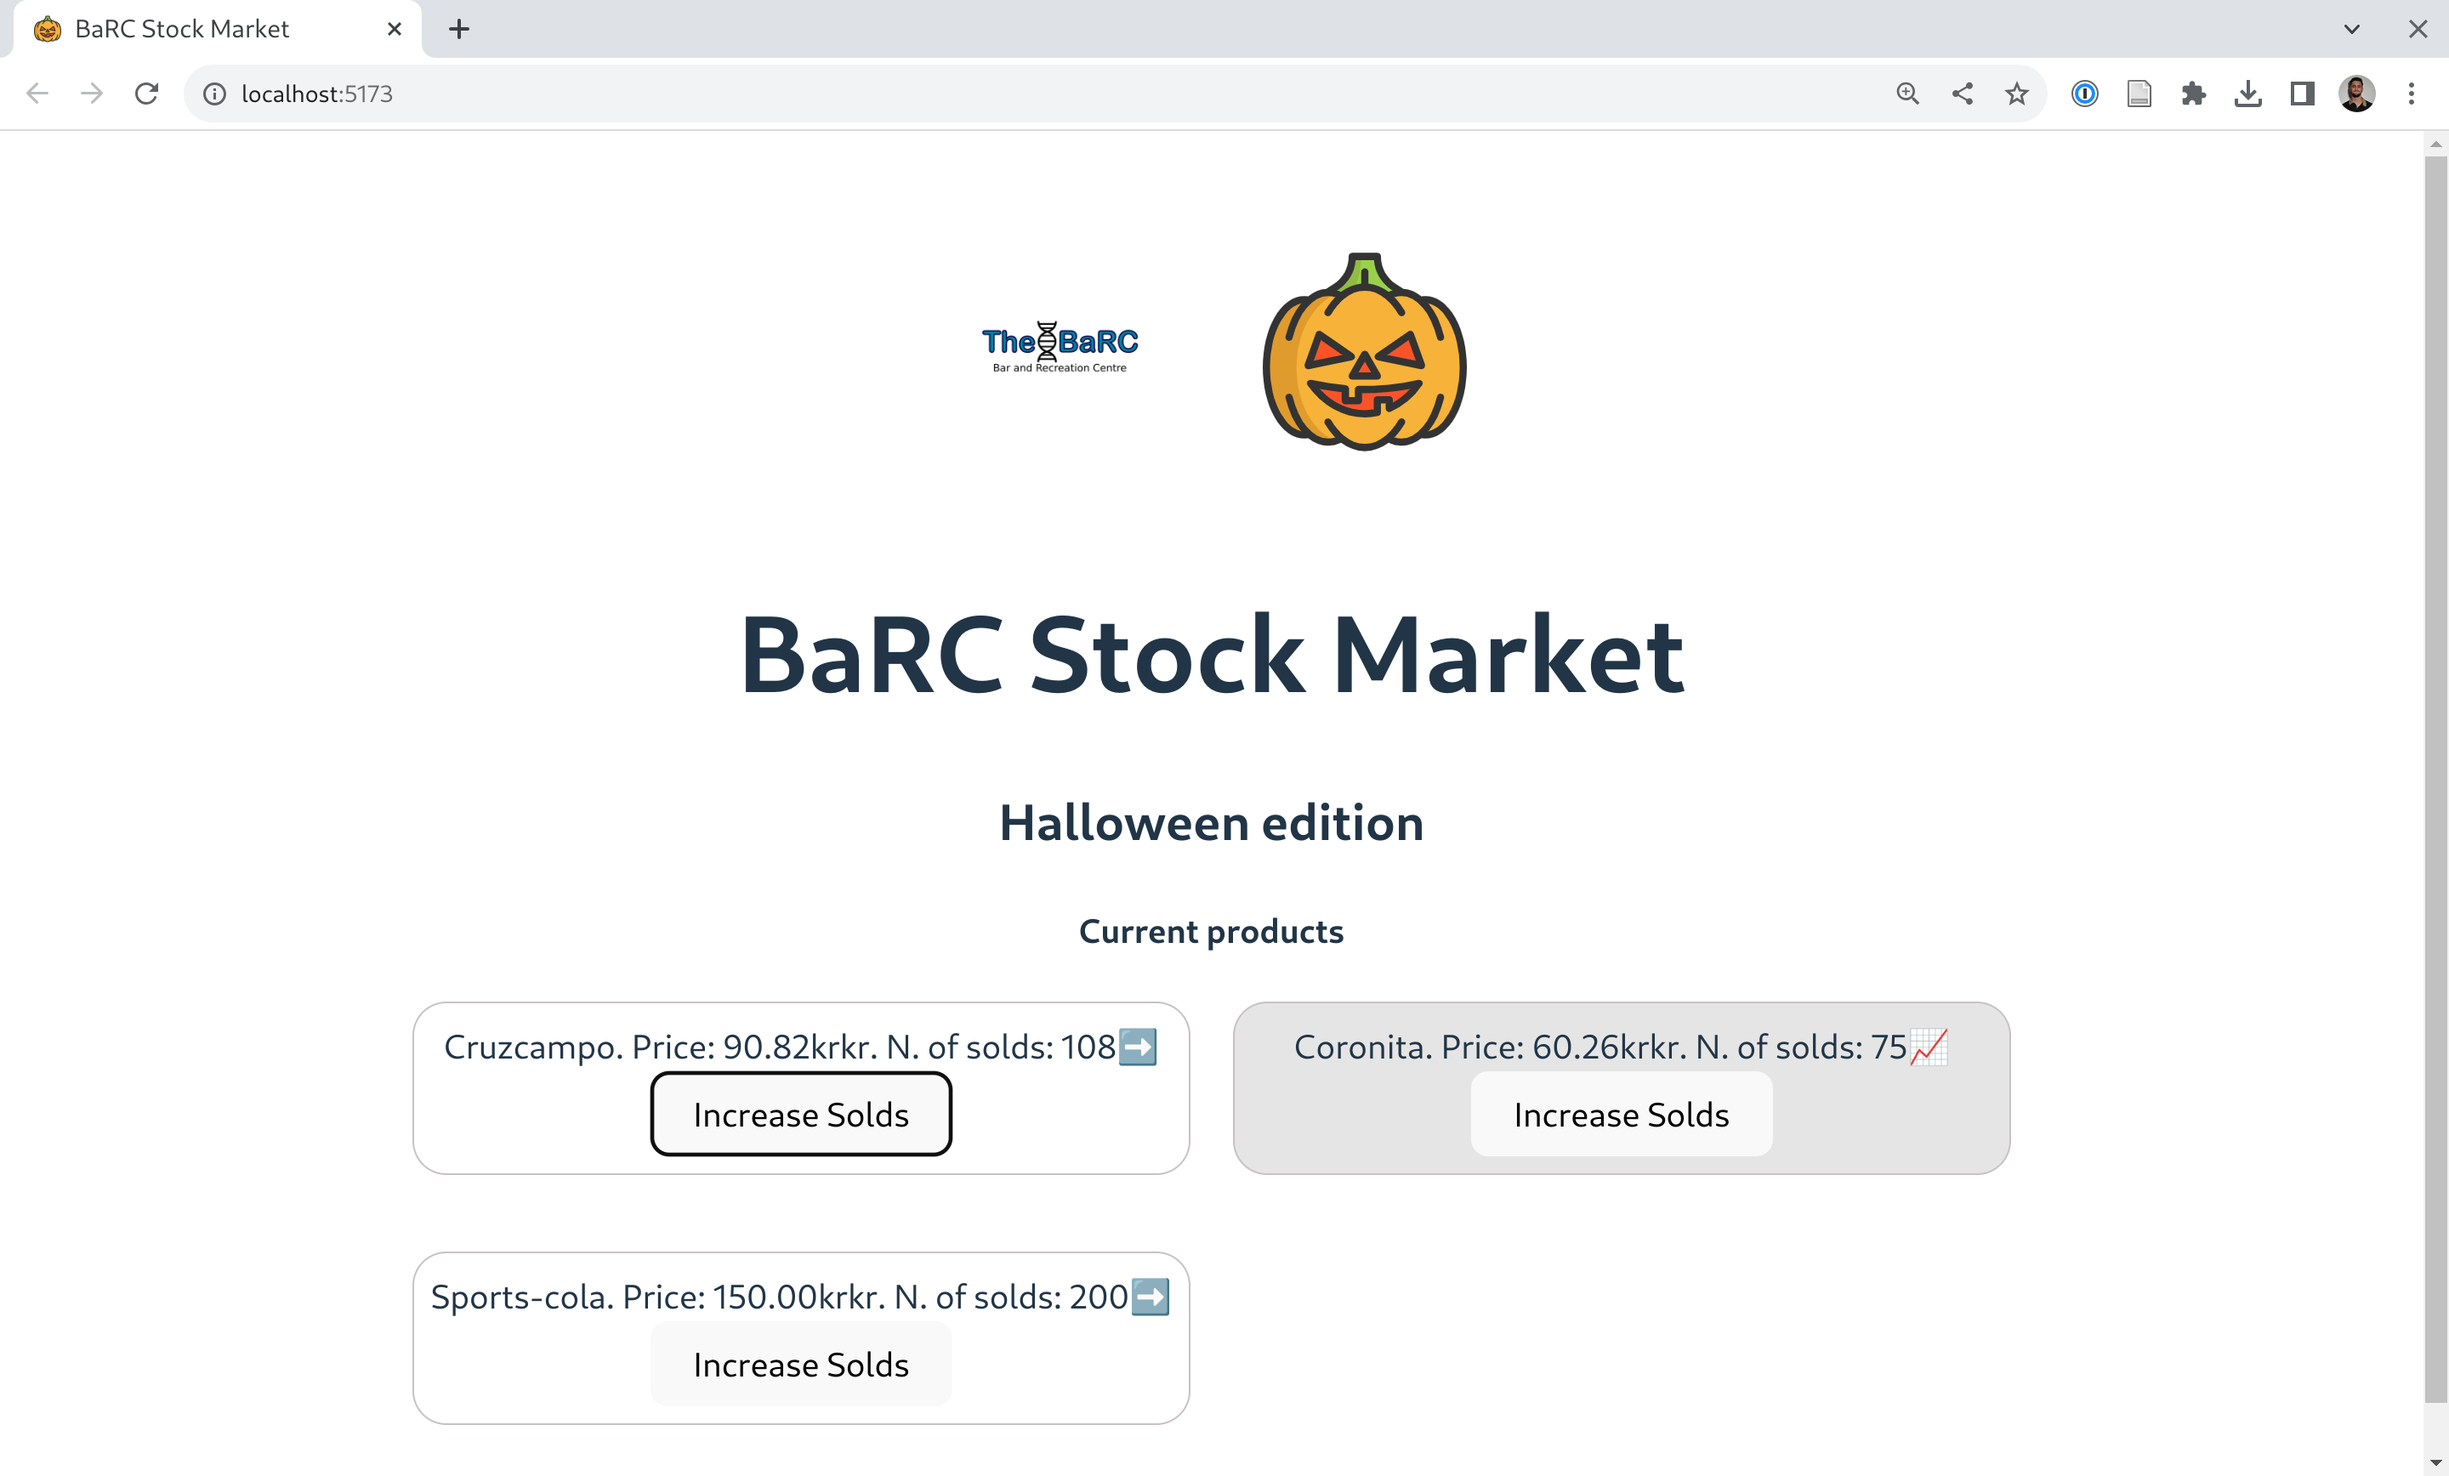
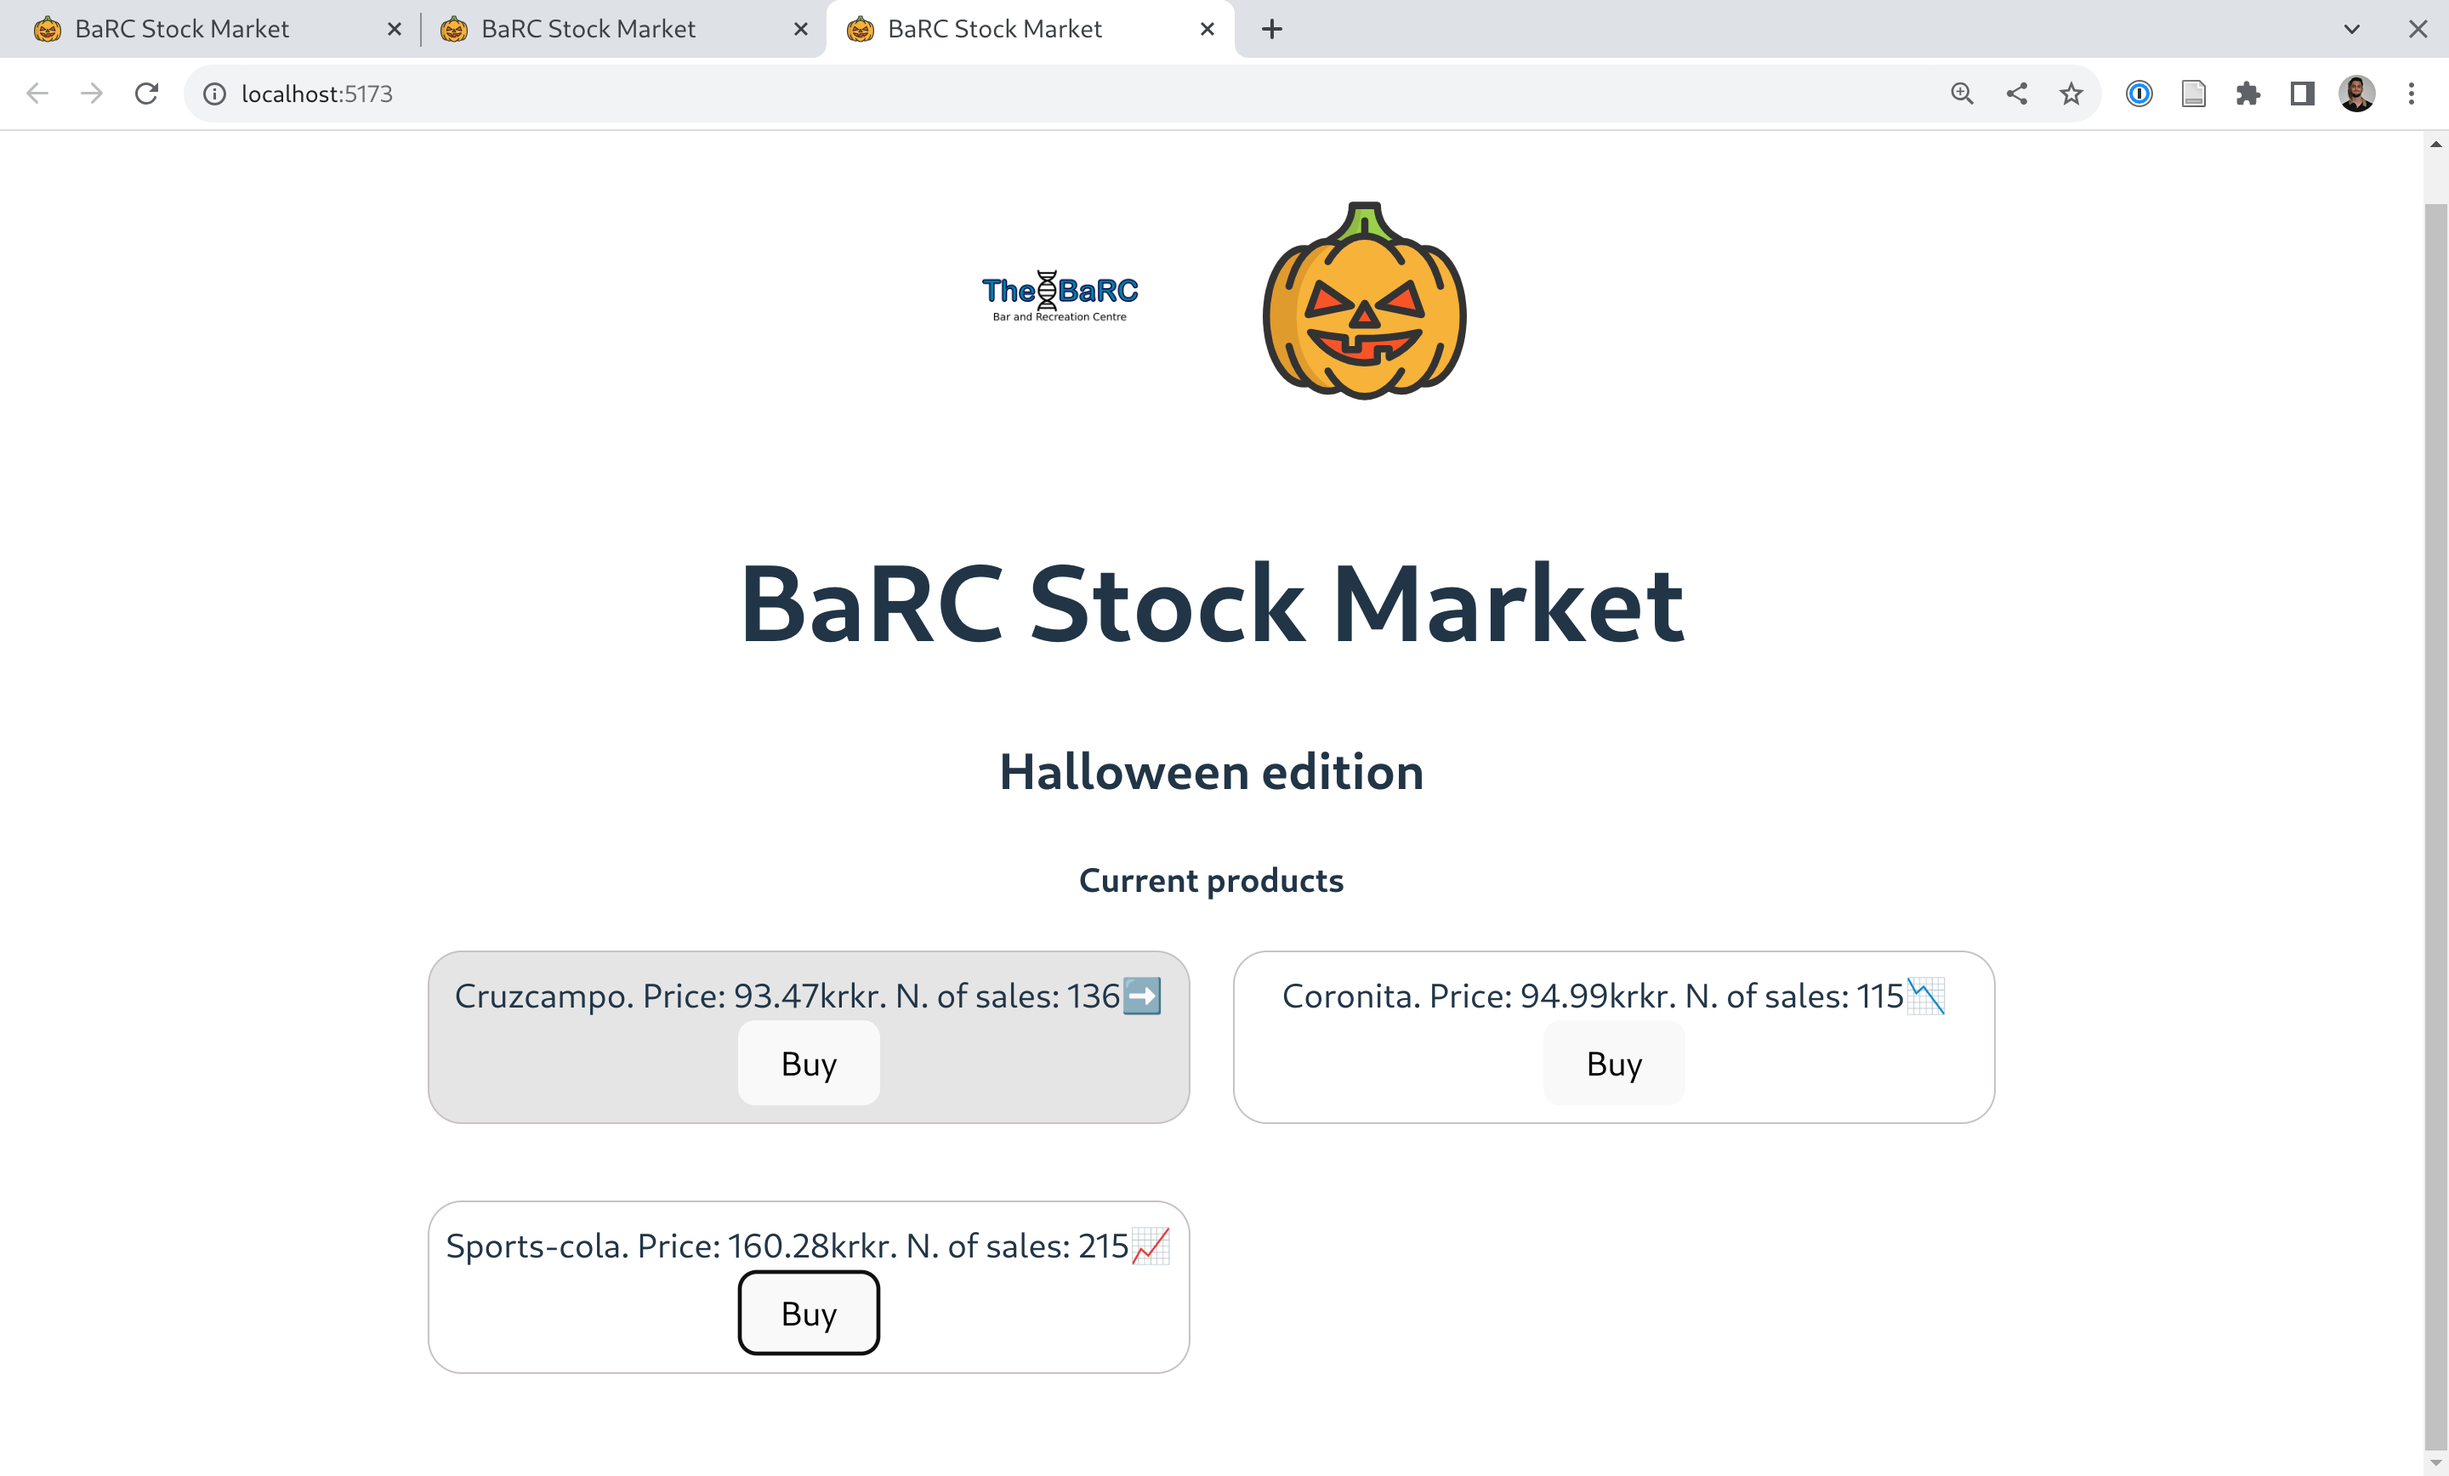
Fix typo

diff --git a/src/drinks/DrinkCard.tsx b/src/drinks/DrinkCard.tsx
@@ -13,7 +13,7 @@ export function DrinkCard({ drink, reducePrices }: { drink: Drink, reducePrices:
   return (
     <div className={styles.drinkCard}>
       <div>
-        {drink.name}. Price: {formatPrice(drink.price)}kr. N. of solds: {drink.solds}
+        {drink.name}. Price: {formatPrice(drink.price)}kr. N. of sales: {drink.solds}
         {
           (() => {
             switch (drink.tendency) {
@@ -29,7 +29,7 @@ export function DrinkCard({ drink, reducePrices }: { drink: Drink, reducePrices:
           })()
         }
       </div>
-      <button onClick={handleIncreaseSolds}>Increase Solds</button>
+      <button onClick={handleIncreaseSolds}>Buy</button>
     </div>
   );
 }
